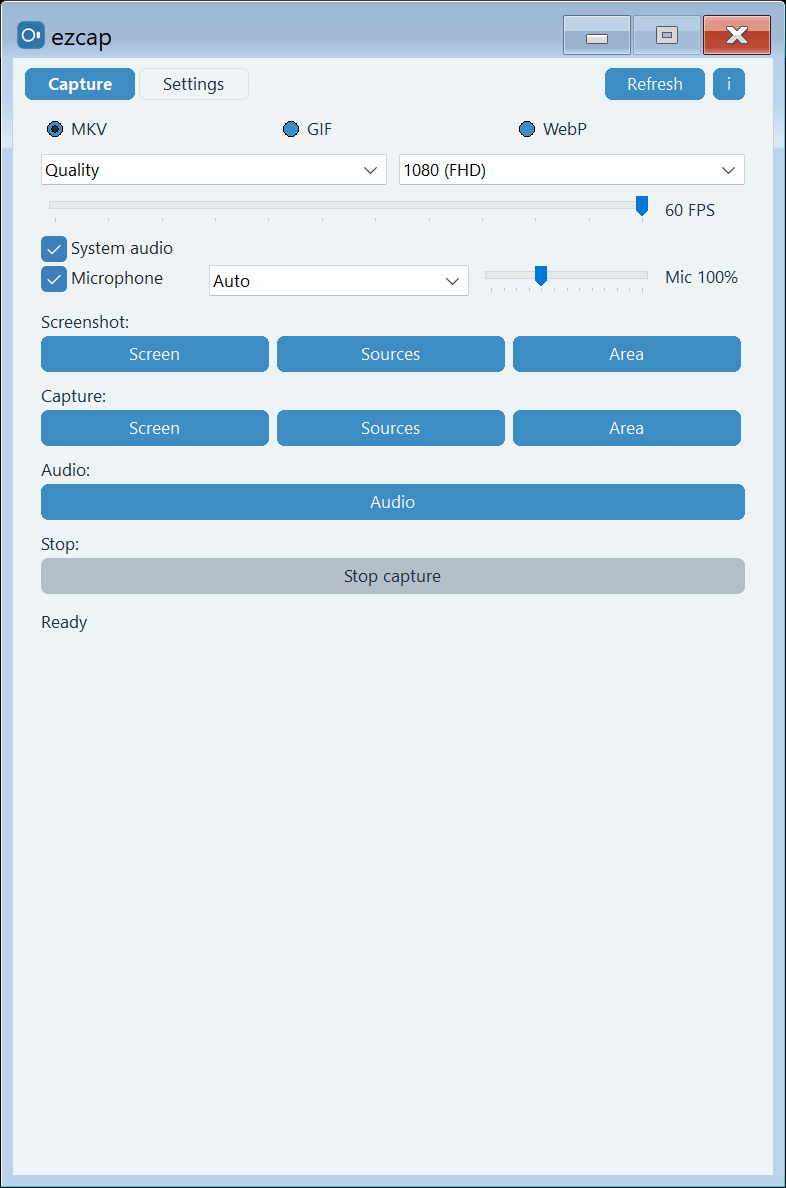
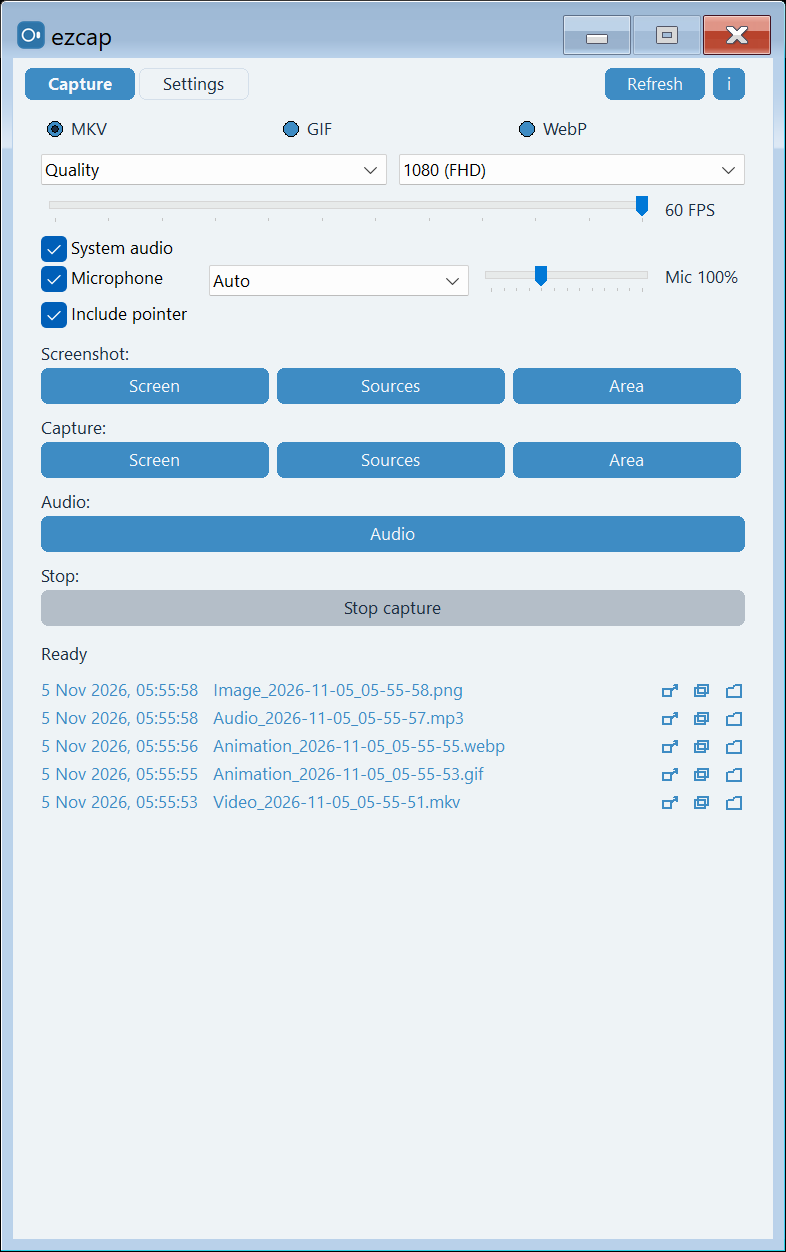
Show the pointer checkbox on the site screenshots.
The capture and settings pictures now match the current window, including Include pointer on each picture profile.

diff --git a/site/index.html b/site/index.html
@@ -107,7 +107,7 @@
         <p class="hint">Бесплатно · исходный код под MIT · программа с FFmpeg под GPL · без облаков и аккаунтов</p>
       </div>
       <div class="hero-shot reveal">
-        <img src="assets/main.png" alt="Главное окно ezcap" width="786" height="1188">
+        <img src="assets/main.png" alt="Главное окно ezcap" width="786" height="1252">
       </div>
     </section>
 

diff --git a/site/en/index.html b/site/en/index.html
@@ -105,7 +105,7 @@
         <p class="hint">Free · source under MIT · the app with FFmpeg under GPL · no cloud and no account</p>
       </div>
       <div class="hero-shot reveal">
-        <img src="../assets/main.png" alt="ezcap main window" width="786" height="1188">
+        <img src="../assets/main.png" alt="ezcap main window" width="786" height="1252">
       </div>
     </section>
 
